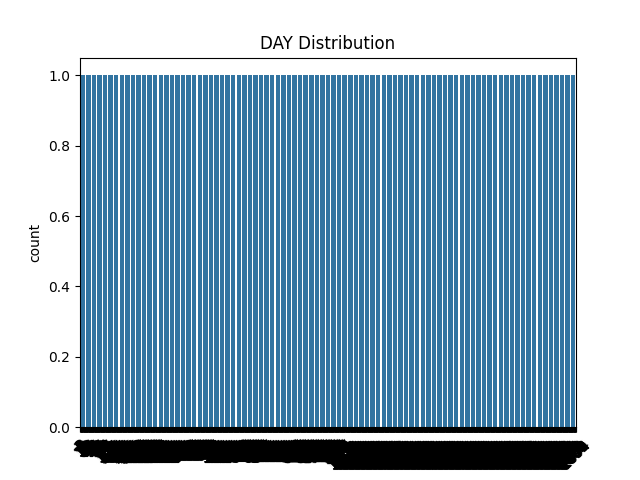
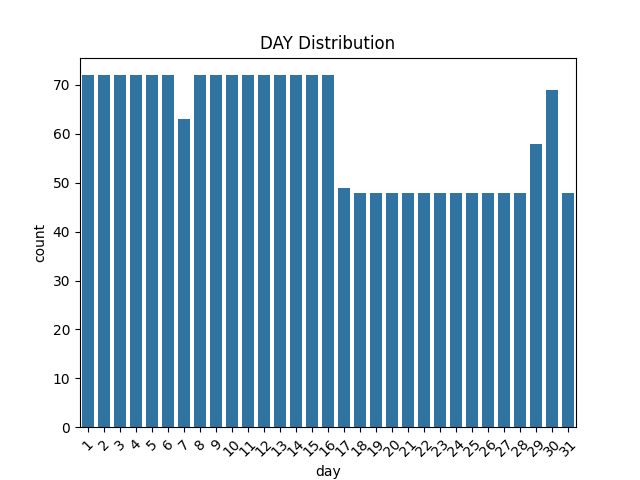
fixed seaborn countplot in EDA

Changed region(s): [[0.0312, 0.1562, 0.9375, 1.0]]

diff --git a/DS_Project_002/movingavg/code/MAP_2/MLPipeline/EDA.py b/DS_Project_002/movingavg/code/MAP_2/MLPipeline/EDA.py
@@ -6,31 +6,50 @@ from .Config import IOConfig
 
 # create a class for performing EDA
 class EDA(IOConfig):
+    """
+    A class used to perform the exploratory data analysis.
+
+    Attributes:
+        time_series (df): The input dataframe with sensor and error values.
+    """
     
-    def __init__(self, series):
+    def __init__(self, time_series):
         
-        self.series = series
+        self.series = time_series
 
         print(self.series.head())
+  
+        print(self.series.shape)  # Number of Observations
 
-        #### Number of Observations
-        print(self.series.shape)
+        print(self.series.loc["2017-08-30"])  # Querying By Time
+    
+        print(self.series.describe())  # Descriptive Statistics
 
-        ####  Querying By Time
-        print(self.series.loc["2017-08-30"])
 
-        #### Descriptive Statistic
-        print(self.series.describe())
+    def date_refactor(self):
+        df = pd.DataFrame()
+        df['month'] = [self.series.index[i].month for i in
+                       range(len(self.series))]  # Extract month
+        df['day'] = [self.series.index[i].day for i in
+                     range(len(self.series))]  # Extract day
+        df['hour'] = [self.series.index[i].hour for i in
+                      range(len(self.series))]  # Extract hour 
+        df["sensoryVale"] = [self.series.Sensor_Value.iloc[i] for i in 
+                             range(len(self.series))]
+        # Year attribute is discarded since there is no variation in the data
+        print("Years present: \t", set([self.series.index[i].year for i in
+                                        range(len(self.series))]))
+        print(df.head())
+        return df
+    
 
     def RunEDA(self):
 
-        #### Feature Engineering + EDA
-        #### Feature engineering is to provide strong and ideally simple relationships between new input features and the output feature for the supervised learning algorithm to model.
-        dataframe1 = self.date_refactor()
+        date_info_df = self.date_refactor()
 
-        print(dataframe1.columns)
-        for col in dataframe1.columns[:-1]: # Visualizing the distribution of all the columns
-            sns.countplot(dataframe1[col])
+        print(date_info_df.columns)
+        for col in date_info_df.columns[:-1]: # Visualizing the distribution of all the columns
+            sns.countplot(data=date_info_df, x=col)
             plt.title(str(col).upper()+" Distribution")
             plt.xticks(rotation=45)
             plt.savefig(f"{self.output_folder}+{col}.png")
@@ -41,13 +60,14 @@ class EDA(IOConfig):
         data = pd.DataFrame(columns=["Sensor_Value"],data=self.series["Sensor_Value"])
         print(data.head(3))
 
-
         # Getting the months distribution of sensory data
         groups = data.groupby(pd.Grouper(freq='M'))
         weeks = pd.DataFrame()
         for name, group in groups:
+            # The print stmt shows the number of data points for each months differs, 
+            # so it was standardized to 53 data points (lowest from all months considered)
             print(name.month, "-",group.Sensor_Value.nunique())
-            weeks[name.month] = list(group.Sensor_Value)[:53] # The above print shows the number of data points for each months differs, so standarding it to 53 data points (lowest from all months considered)
+            weeks[name.month] = list(group.Sensor_Value)[:53] 
 
         weeks.plot(subplots=True,legend=True, figsize=(25, 25) )
         plt.savefig(f"{self.output_folder}+Each Month Distribution.png")
@@ -81,17 +101,3 @@ class EDA(IOConfig):
         print(data["Sensor_Value"].isna().sum()) #there are no missing values
 
         print("This completes EDA")
-
-    def date_refactor(self):
-        dataframe1 = pd.DataFrame()
-        dataframe1['month'] = [self.series.index[i].month for i in
-                               range(len(self.series))]  # Extracting month attribute from TimeStamp
-        dataframe1['day'] = [self.series.index[i].day for i in
-                             range(len(self.series))]  # Extracting day attribute from TimeStamp
-        dataframe1['hour'] = [self.series.index[i].hour for i in
-                              range(len(self.series))]  # Extracting hour attribute from TimeStamp
-        dataframe1["sensoryVale"] = [self.series.Sensor_Value[i] for i in range(len(self.series))]
-        print("Years present: \t", set([self.series.index[i].year for i in range(len(self.series))]))
-        # Since there is only one year of data, we  would discard the year
-        print(dataframe1.head())
-        return dataframe1

diff --git a/DS_Project_002/movingavg/code/MAP_2/MLPipeline/Config.py b/DS_Project_002/movingavg/code/MAP_2/MLPipeline/Config.py
@@ -6,26 +6,22 @@ import os
 module_path = Path(__file__).parents[1]
 sys.path.append(str(module_path))
 
-# create a class for basic configurations
 class IOConfig:
+    """
+    A class used to configure the pipeline modules.
+
+    Attributes:
+        data_folder (str): The input data file.
+        output_folder (str): The output file location.
+        time_series (df): The input dataframe with sensor and error values.
+    """
 
     data_folder = os.path.join(module_path, "Input/Data-Chillers.csv")
     output_folder = os.path.join(module_path, "Output/")
 
     # Read the CSV file without using the deprecated `squeeze` parameter
-    series = pd.read_csv(data_folder, header=0, index_col=0, parse_dates=True)
+    time_series = pd.read_csv(data_folder, header=0, index_col=0, parse_dates=True)
 
     # If the resulting DataFrame has only one column, convert it to a Series
-    if series.shape[1] == 1:
-        series = series.iloc[:, 0]
-
-    print(series.head())
-
-    #### Number of Observations
-    print(series.shape)
-
-    ####  Querying By Time
-    print(series.loc["2017-08-30"])
-
-    #### Descriptive Statistic
-    print(series.describe())
+    if time_series.shape[1] == 1:
+        time_series = time_series.iloc[:, 0]

diff --git a/DS_Project_002/movingavg/code/MAP_2/Output/Engine.py b/DS_Project_002/movingavg/code/MAP_2/Output/Engine.py
@@ -24,12 +24,12 @@ df.set_index("time", inplace=True)
 eda = EDA(df)
 eda.RunEDA()
 
-# Perform Resampling on data
+'''# Perform resampling on data
 resampling = Resampling(df)
 resampling.RunResampling()
 
 # Perform moving average smoothing
 movingaverage = MovingAverage(df)
-movingaverage.RunMovingAverage()
+movingaverage.RunMovingAverage()'''
 
 print("Completed Moving Average")
